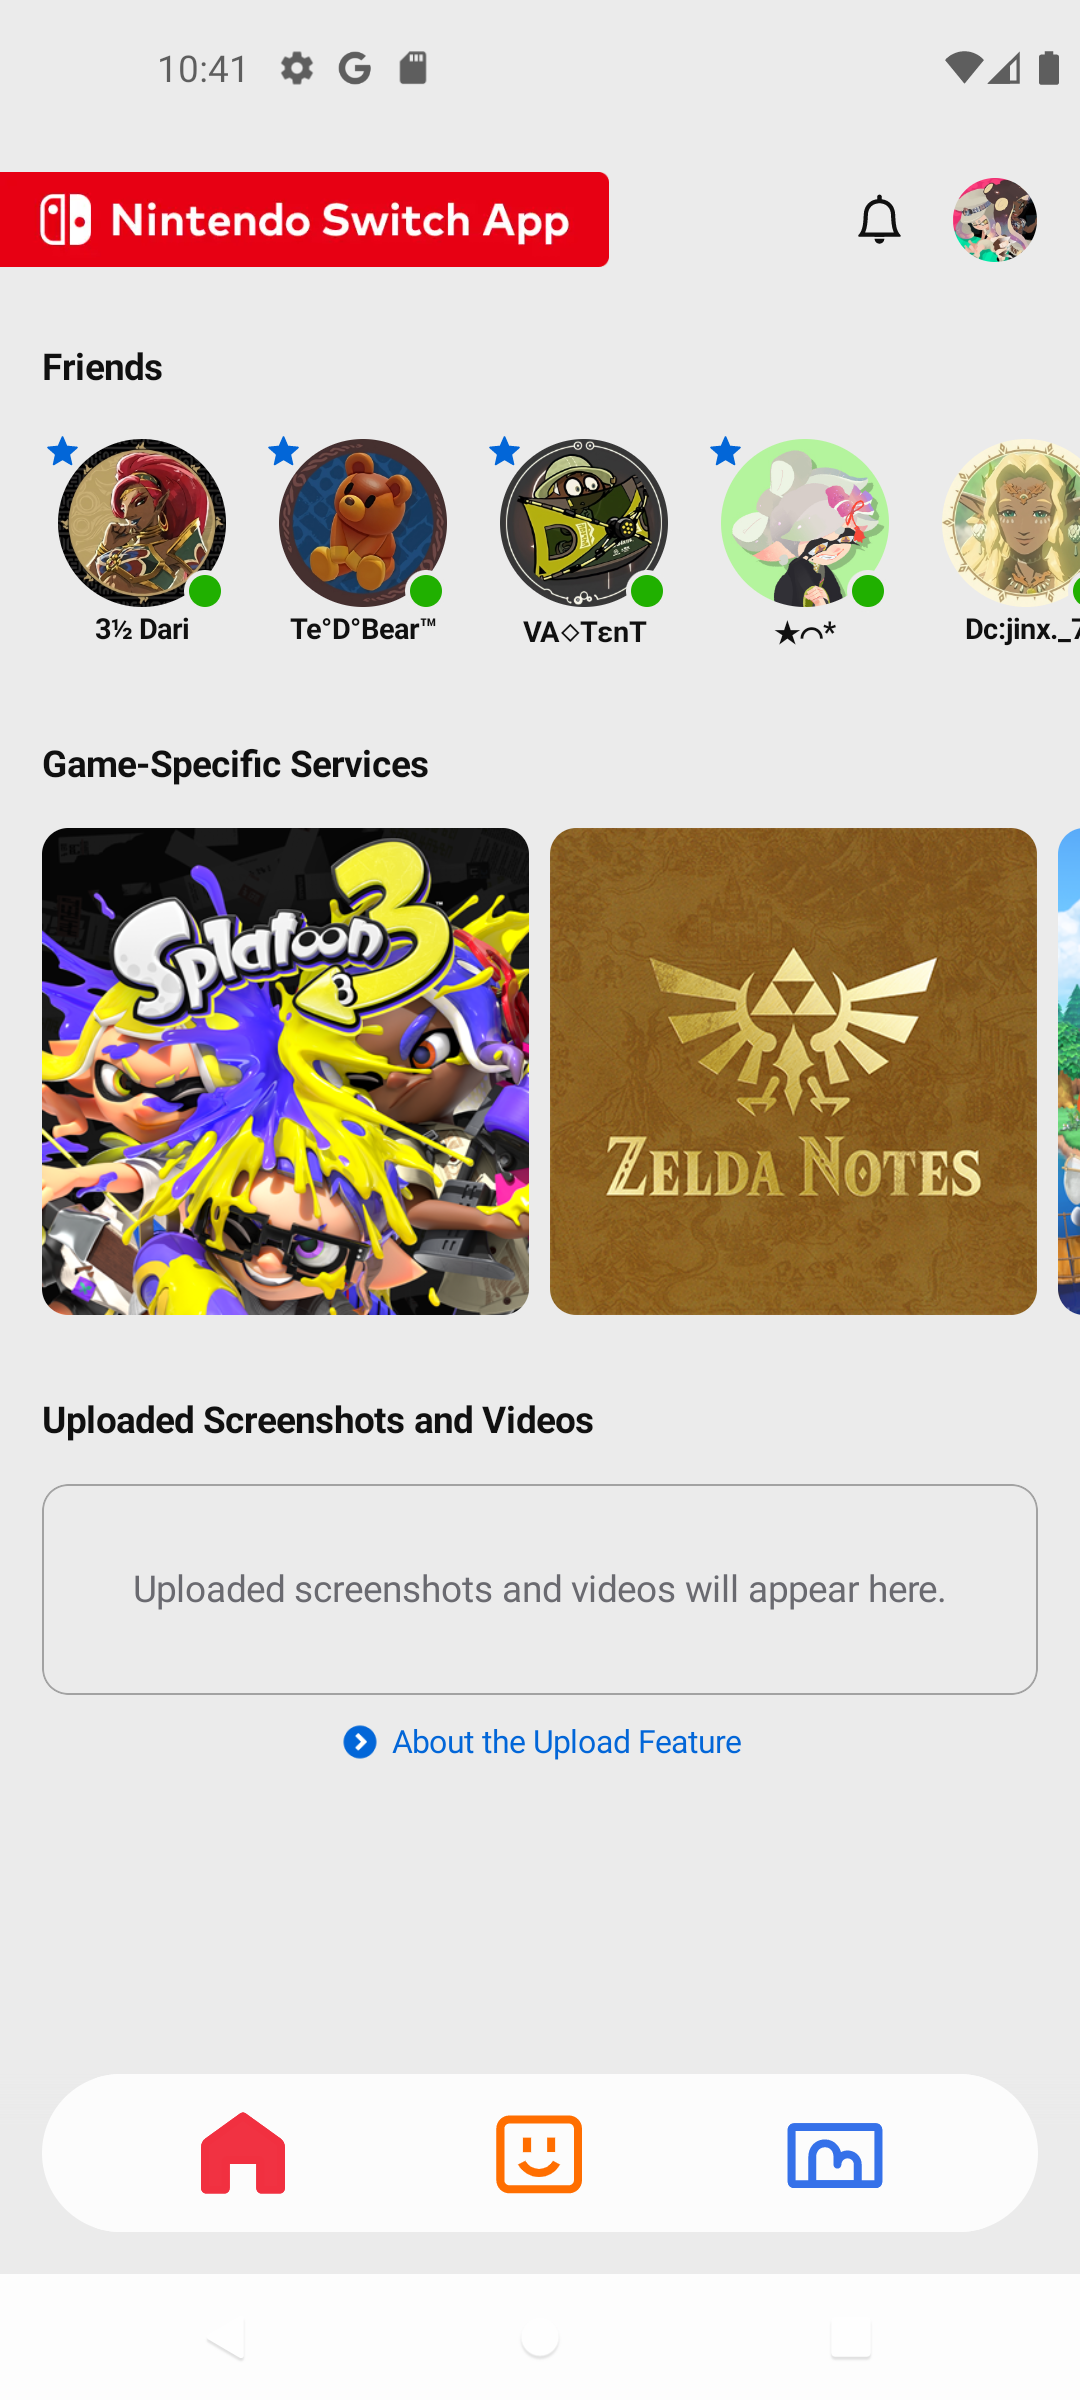
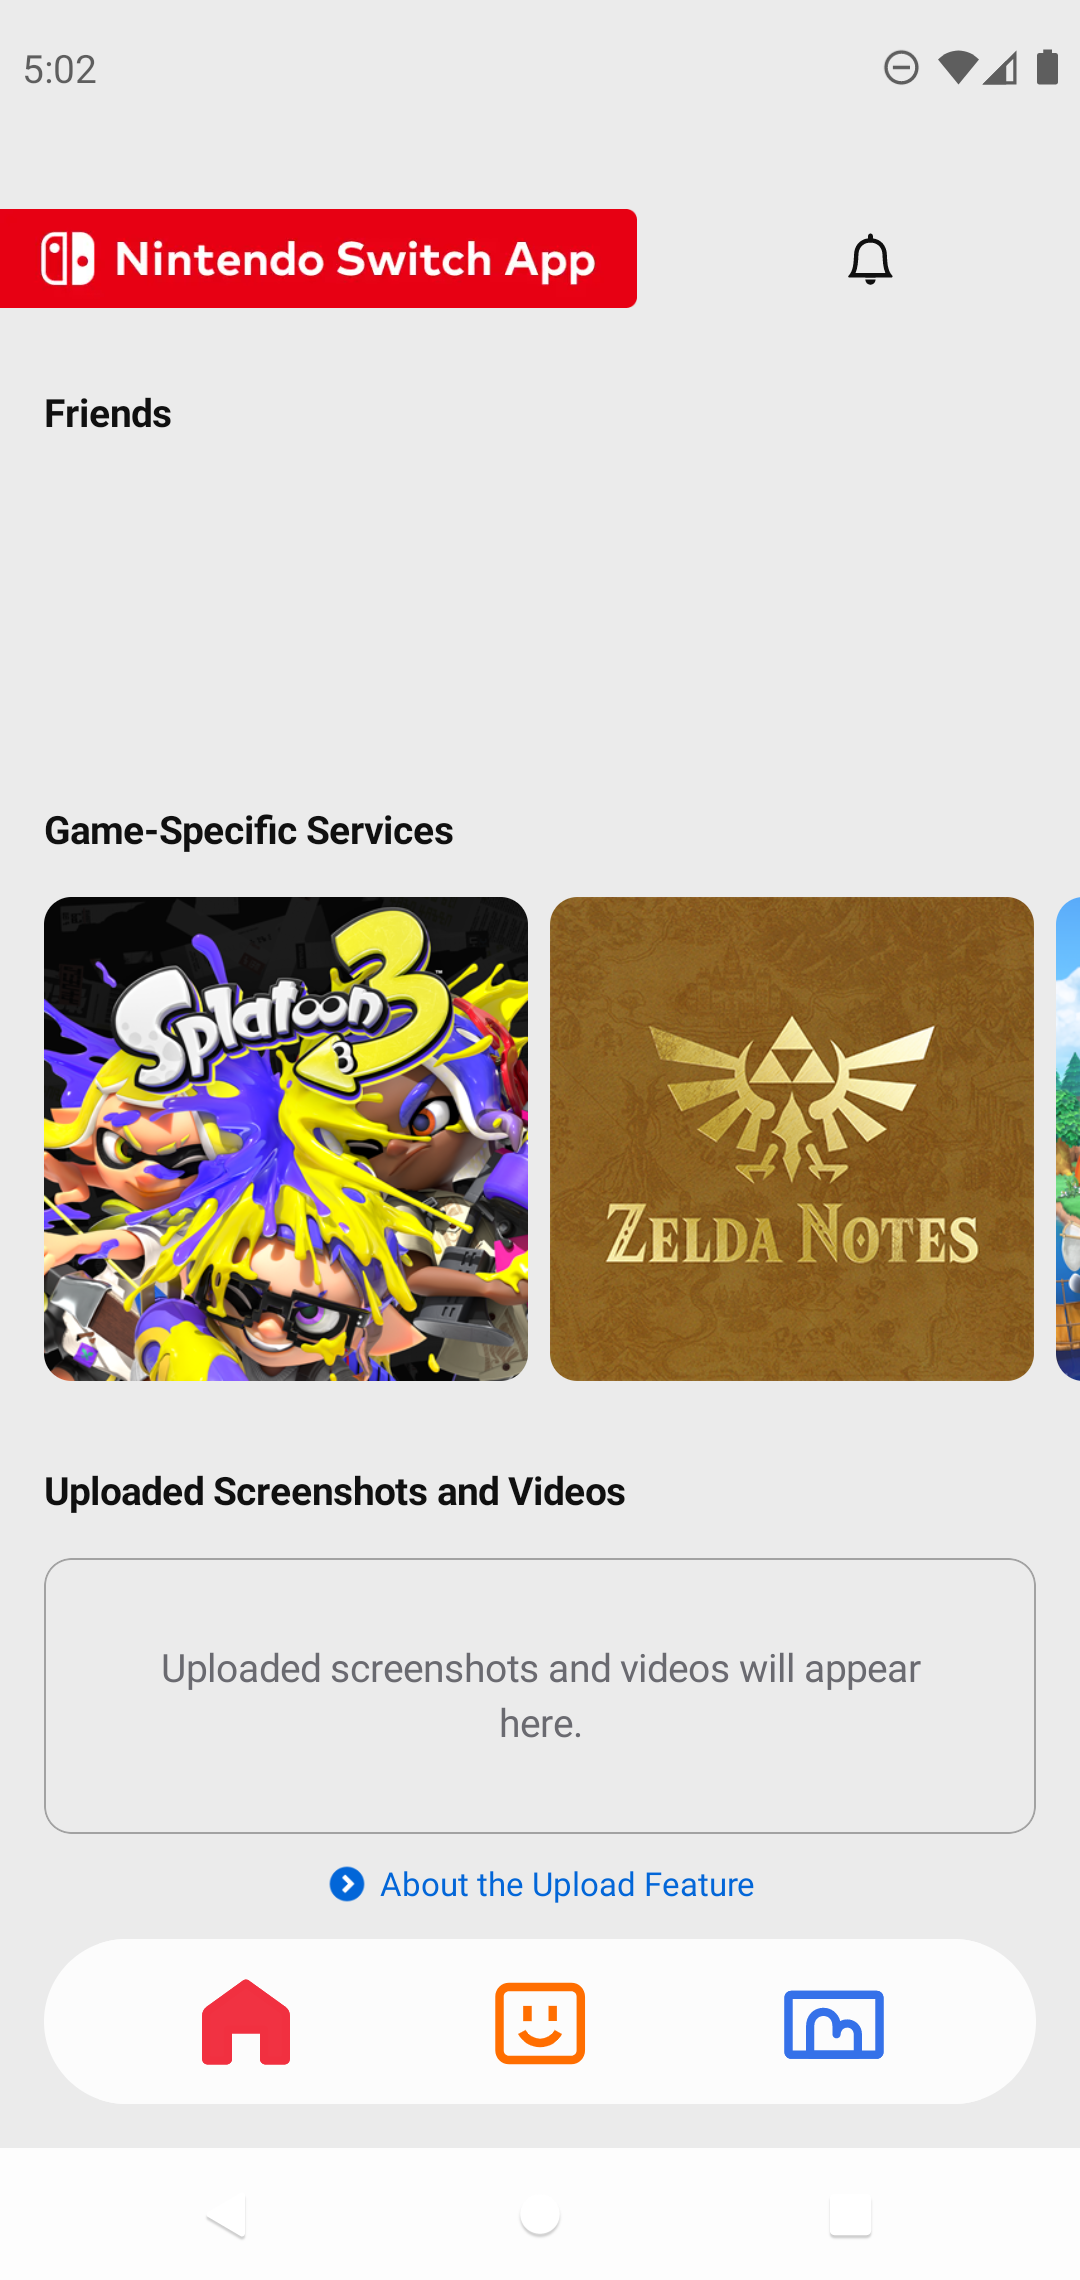
feat: 🔧 change script examples to work with Pixel 4 API Level 30 instead of Pixel 8 API Level 30 (Android 11)
- replace screenshots
- update boot.txt and cleanup.txt
- update splatnet3_utils and app_config to use new user agents matching Pixel 4 and Android 11

diff --git a/data/app_config.py b/data/app_config.py
@@ -19,7 +19,7 @@ class AppConfig:
 				 max_attempt_duration_seconds=150,
 				 extract_g_token = True,
 				 extract_bullet_token = True,
-				 bullet_token_curl_request="curl 'https://api.lp1.av5ja.srv.nintendo.net/api/bullet_tokens' --compressed -X POST -H 'User-Agent: Mozilla/5.0 (X11; Linux x86_64; rv:136.0) Gecko/20100101 Firefox/136.0' -H 'Accept: */*' -H 'Accept-Language: en-US' -H 'Accept-Encoding: gzip, deflate, br, zstd' -H 'Referer: https://api.lp1.av5ja.srv.nintendo.net/' -H 'content-type: application/json' -H 'x-nacountry: US' -H 'x-web-view-ver: 6.0.0-bbd7c576' -H 'Origin: https://api.lp1.av5ja.srv.nintendo.net' -H 'DNT: 1' -H 'Connection: keep-alive' -H 'Cookie: _gtoken={GTOKEN}' -H 'Sec-Fetch-Dest: empty' -H 'Sec-Fetch-Mode: cors' -H 'Sec-Fetch-Site: same-origin' -H 'Priority: u=4' -H 'Content-Length: 0' -H 'TE: trailers'",
+				 bullet_token_curl_request="curl 'https://api.lp1.av5ja.srv.nintendo.net/api/bullet_tokens' --compressed -X POST -H 'User-Agent: Mozilla/5.0 (Linux; Android 11; Pixel 4) AppleWebKit/537.36 (KHTML, like Gecko) Chrome/120.0.6099.230 Mobile Safari/537.36' -H 'Accept: */*' -H 'Accept-Language: en-US' -H 'Accept-Encoding: gzip, deflate, br, zstd' -H 'Referer: https://api.lp1.av5ja.srv.nintendo.net/' -H 'content-type: application/json' -H 'x-nacountry: US' -H 'x-web-view-ver: 6.0.0-bbd7c576' -H 'Origin: https://api.lp1.av5ja.srv.nintendo.net' -H 'DNT: 1' -H 'Connection: keep-alive' -H 'Cookie: _gtoken={GTOKEN}' -H 'Sec-Fetch-Dest: empty' -H 'Sec-Fetch-Mode: cors' -H 'Sec-Fetch-Site: same-origin' -H 'Priority: u=4' -H 'Content-Length: 0' -H 'TE: trailers'",
 				 extract_session_token = False,
 				 validate_g_token = True,
 				 validate_bullet_token = True,

diff --git a/utils/splatnet3_utils.py b/utils/splatnet3_utils.py
@@ -10,7 +10,7 @@ def create_headers(bullet_token):
 	graphql_head = {
 		'Authorization': f'Bearer {bullet_token}',  # update every time it's called with current global var
 		'Accept-Language': lang,
-		'User-Agent': 'Mozilla/5.0 (Linux; Android 14; Pixel 8) '
+		'User-Agent': 'Mozilla/5.0 (Linux; Android 11; Pixel 4) '
 					  'AppleWebKit/537.36 (KHTML, like Gecko) '
 					  'Chrome/120.0.6099.230 Mobile Safari',
 		'X-Web-View-Ver': '6.0.0-9253fd84',
